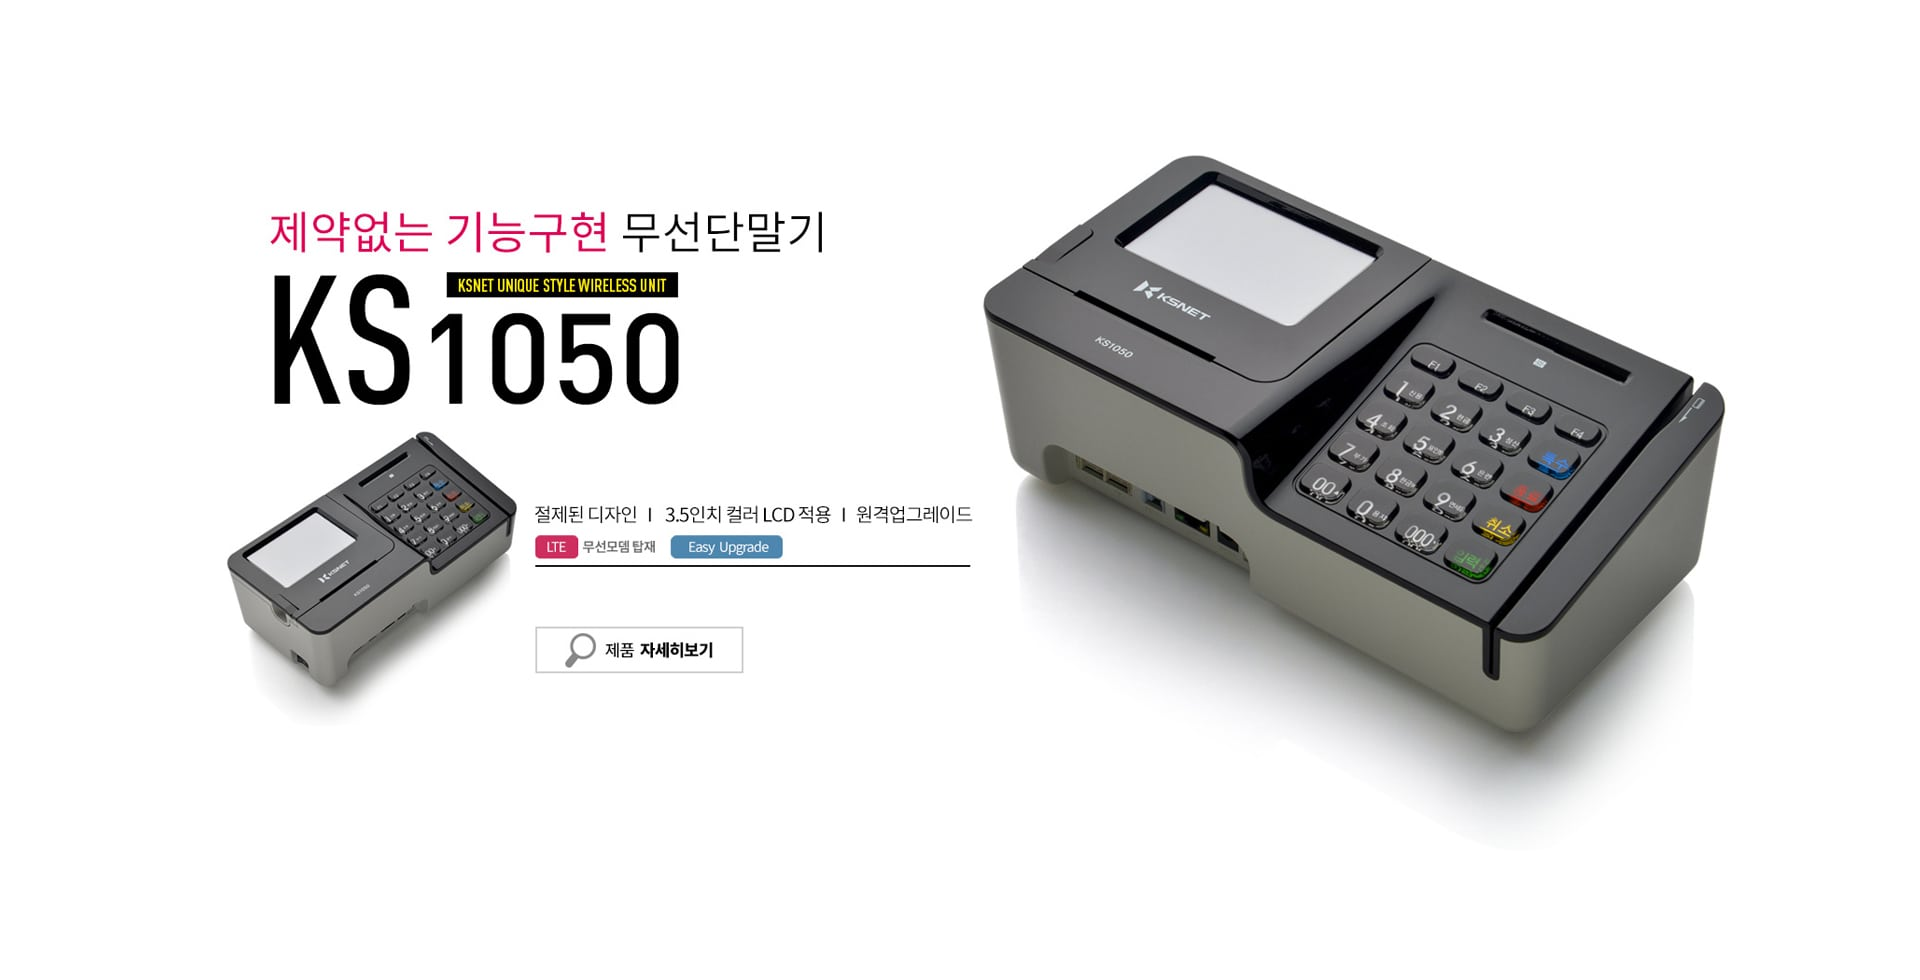
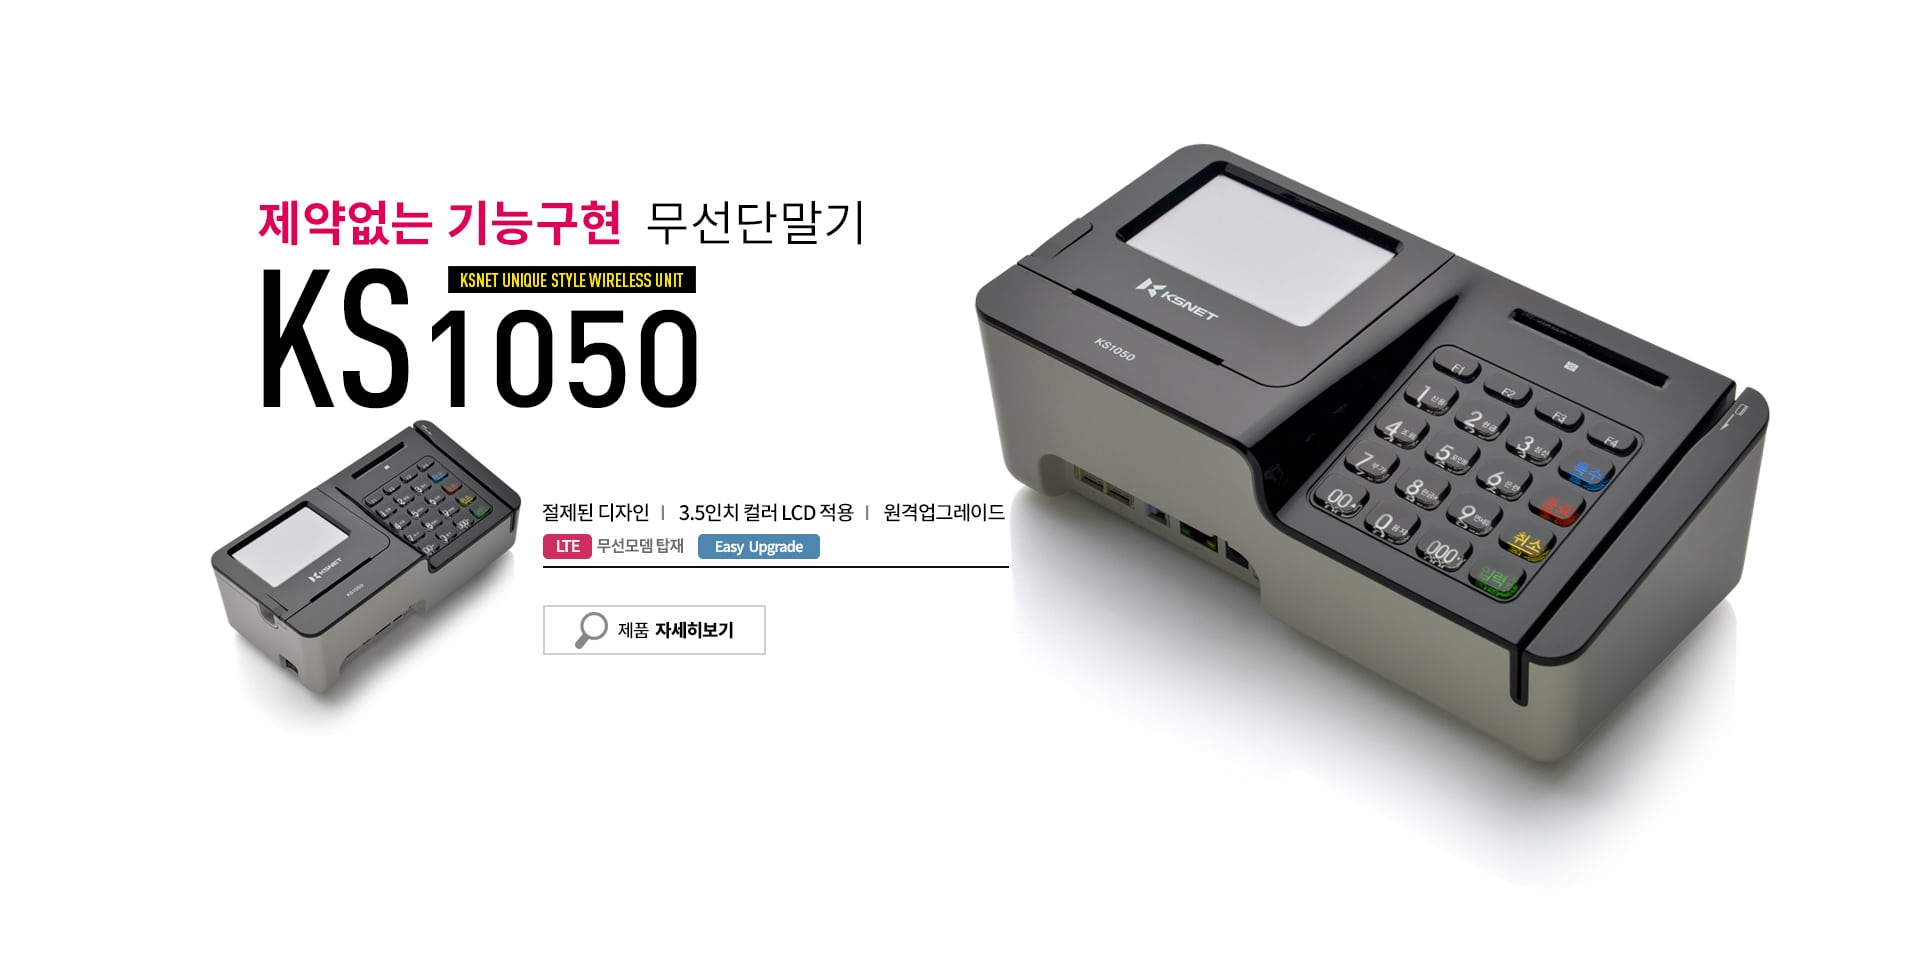
인트로 배경 수정 / 메인 팝업 / 제품 상세 로케이션 내용 추가

Changed region(s): [[0.0938, 0.1531, 0.9375, 0.8571], [0.2812, 0.6122, 0.4062, 0.7041], [0.5938, 0.398, 0.625, 0.4286]]

diff --git a/src/html/intro.html b/src/html/intro.html
@@ -47,7 +47,7 @@
 					<li data-transition="fade" data-slotamount="0" data-masterspeed="300" style="background-color: #fff;">
 						<div class="intro_respson"><img src="../image/intro/visual1.jpg" usemap="#location1" /></div>
 						<map name="location1" id="location1">
-							<area shape="rect" coords="534,626,742,672" href="http://www.naver.com" target="_blank" title="제품 자세히 보기 링크이동">
+							<area shape="rect" coords="542,604,765,654" href="http://www.naver.com" target="_blank" title="제품 자세히 보기 링크이동">
 						</map>
 					</li>
 					<!-- //slide1 -->
@@ -56,16 +56,16 @@
 					<li data-transition="fade" data-slotamount="0" data-masterspeed="300" style="background-color: #fff;">
 						<div class="intro_respson"><img src="../image/intro/visual2.jpg" usemap="#location2" /></div>
 						<map name="location2" id="location2">
-							<area shape="rect" coords="944,617,1159,661" href="http://www.daum.net" target="_blank" title="제품 자세히 보기 링크이동">
+							<area shape="rect" coords="922,612,1145,662" href="http://www.daum.net" target="_blank" title="제품 자세히 보기 링크이동">
 						</map>
 					</li>
 					<!-- //slide2  -->
 		
 					<!-- slide3  -->
-					<li data-transition="fade" data-slotamount="0" data-masterspeed="300" style="background-color: #00a1bd;">
+					<li data-transition="fade" data-slotamount="0" data-masterspeed="300" style="background-color: #fff;">
 						<div class="intro_respson bg_white"><img src="../image/intro/visual3.jpg" usemap="#location3" /></div>
 						<map name="location3" id="location3">
-							<area shape="rect" coords="350,664,537,706" href="http://www.google.com" target="_blank" title="제품 자세히 보기 링크이동">
+							<area shape="rect" coords="278,656,501,706" href="http://www.google.com" target="_blank" title="제품 자세히 보기 링크이동">
 						</map>
 					</li>
 					<!-- //slide3  -->

diff --git a/src/css/ui.css b/src/css/ui.css
@@ -818,6 +818,7 @@ button {
 .ly .pop_compare {
 	max-width: 95%;
 	height: 90%;
+	background: transparent;
 	overflow: hidden;
 	overflow-x: auto;
 }
@@ -3971,8 +3972,8 @@ button {
 	display: flex;
 	justify-content: center;
 	align-content: center;
-	width: 1200px;
 	height: 100%;
+	background: transparent;
 }
 .compare_area .product_spec_area {
 	position: relative;
@@ -3981,6 +3982,7 @@ button {
 	padding: 0;
 	margin: 0;
 	border: 0;
+	background: #fff;
 }
 .product_spec_area .product_tit {
 	position: relative;

diff --git a/src/html/product_detail.html b/src/html/product_detail.html
@@ -118,6 +118,7 @@
 				<ul class="location">
 					<li><a href="#">HOME &nbsp;&gt;</a></li>
 					<li><a href="#">단말기 &nbsp;&gt;</a></li>
+					<li><a href="#">유선단말기 &nbsp;&gt;</a></li>
 					<li><a href="#">제품상세</a></li>
 				</ul>
 			</div>
